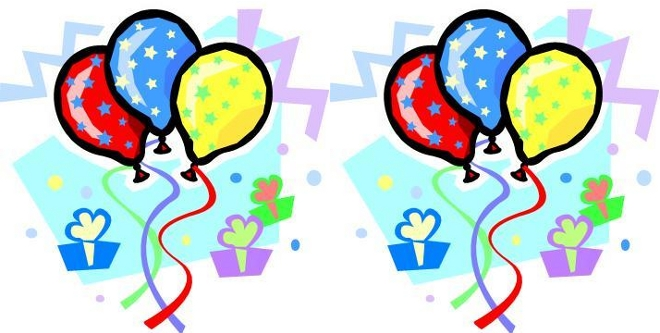
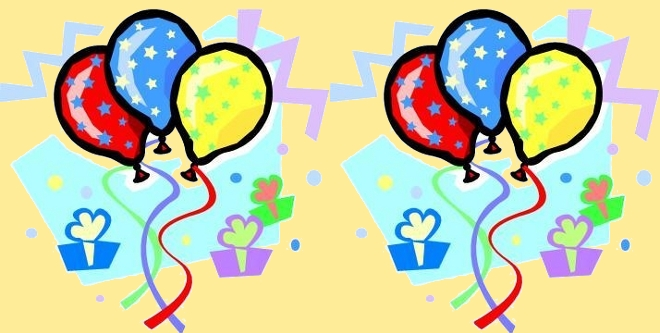
git-svn-id: https://opencaching-pl.googlecode.com/svn@3591 19cba9c3-8ce2-6c67-1c13-32ea8d8b491d

diff --git a/tpl/stdstyle/css/style_test.css b/tpl/stdstyle/css/style_test.css
@@ -1,3 +1,3 @@
-body { background-color: #ffffff; }
+body { background-color: #feec98; }
 div#bg1 { display: block; position: absolute; width: 330px; height: 100%; left: -331px; top: -2px; background-repeat: no-repeat; background-image: url(../../../images/happy_birthday.jpg);}
 div#bg2 { display: block; position: absolute; width: 330px; height: 100%; right: -331px; top: -2px; background-repeat: no-repeat; background-image: url(../../../images/happy_birthday.jpg);background-position: top right;}
